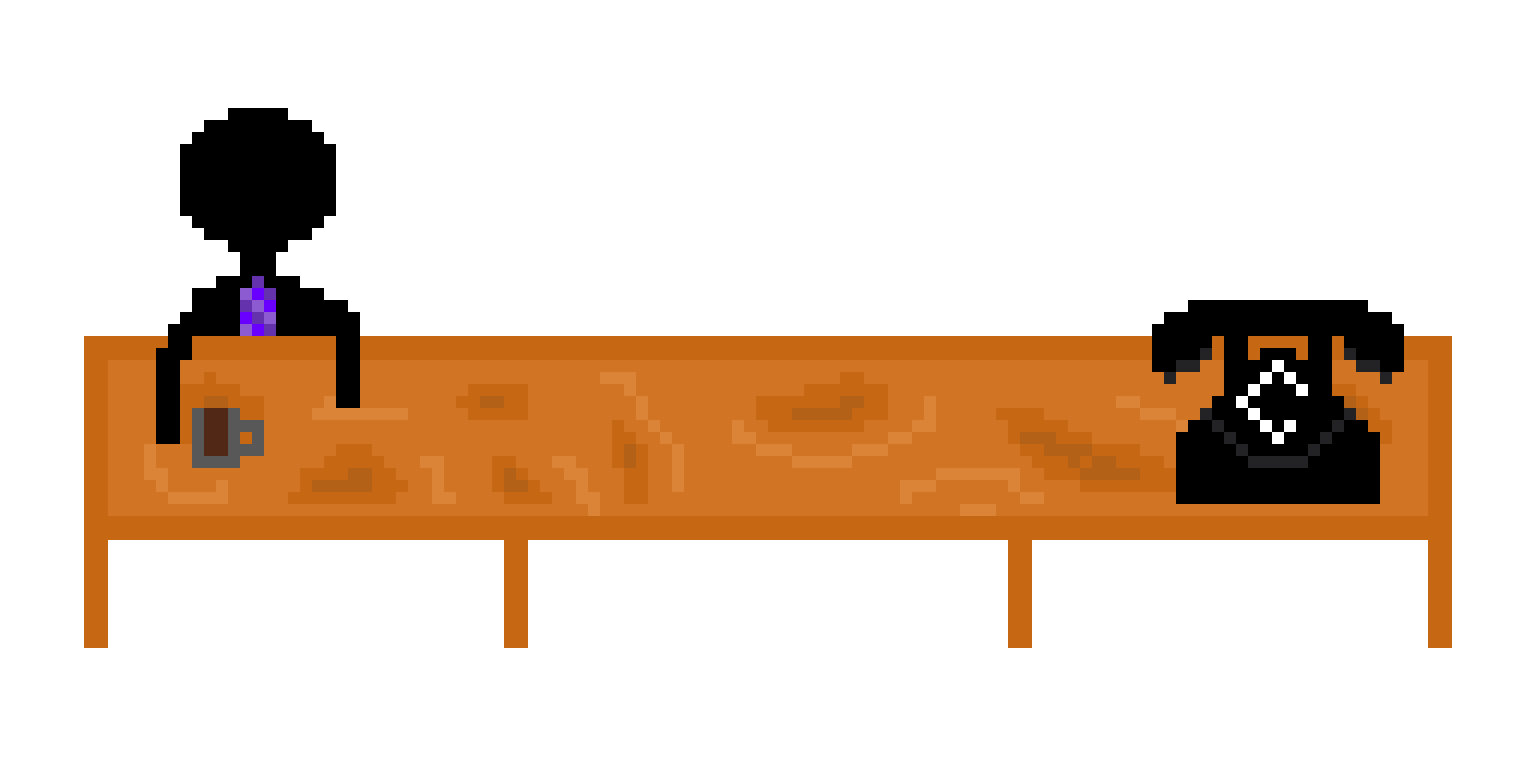
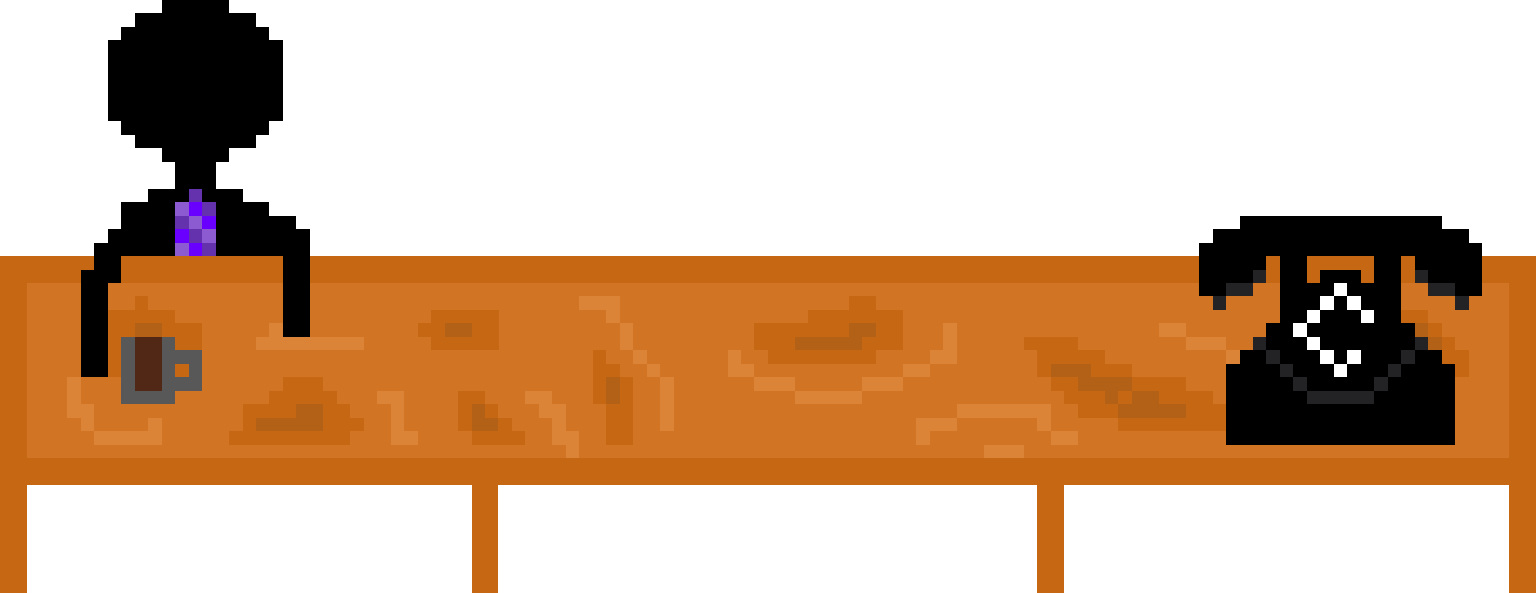
Re-downloaded the desk sprites to make sure they are the correct size. Positioned the sprites on the game screen page. Made the desk sprite change version based on the ice variable to demonstrate how later we can change the sprites easily. Fully implemented and functional.

diff --git a/core/src/com/mygdx/game/GameScreen.java b/core/src/com/mygdx/game/GameScreen.java
@@ -36,6 +36,17 @@ public class GameScreen implements Screen, GestureDetector.GestureListener {
     private ImageButton iceButton;
     private ImageButton marketButton;
     private ImageButton lobbyButton;
+
+    private ImageButton onePersonNoRing;
+    private ImageButton onePersonRing;
+
+    private ImageButton twoPersonNoRing;
+    private ImageButton twoPersonRing;
+
+    private ImageButton threePersonNoRing;
+    private ImageButton threePersonRing;
+
+
     private int screenWidth = Gdx.graphics.getWidth();
     private int screenHeight = Gdx.graphics.getHeight(); //Variable for screen height
     //public static int ice;
@@ -44,7 +55,8 @@ public class GameScreen implements Screen, GestureDetector.GestureListener {
     int playIntSec;
     int playIntHour;
     String gameClock;
-    
+
+    public static int whichTable = 0; //0 = onePersonNoRing, 1 = onePersonRing, 2 = twoPersonNoRing, 3 = twoPersonRing, 4 = threePersonNoRing, 5 = threePersonRing
 
     public GameScreen(final ProjectOdyssey game) {
         System.out.println(screenWidth + "HERE");
@@ -165,6 +177,172 @@ public class GameScreen implements Screen, GestureDetector.GestureListener {
         stage.addActor(marketButton);
 
         Gdx.input.setInputProcessor(new InputMultiplexer(stage, new GestureDetector(this)));
+
+        // onePersonNoRing
+        Skin onePersonNoRingSkin = new Skin();
+        onePersonNoRingSkin.add("onePersonNoRing", new Texture("MainScreen/OnePersonNoRing.png"));
+
+        ImageButton.ImageButtonStyle onePersonNoRingStyle = new ImageButton.ImageButtonStyle();
+        onePersonNoRingStyle.imageUp = onePersonNoRingSkin.getDrawable("onePersonNoRing"); // Unpressed
+        onePersonNoRingStyle.imageDown = onePersonNoRingSkin.getDrawable("onePersonNoRing"); // Pressed
+
+        onePersonNoRing = new ImageButton(onePersonNoRingStyle);
+        int buttonSize4 = (int) (300 * Gdx.graphics.getDensity());
+        onePersonNoRing.setSize( buttonSize4, (buttonSize4 *(float).386) ); //.386 is the ratio of the sprites height/width to ensure accurate hit detection
+        int width4 = (int) (((Gdx.graphics.getWidth() - onePersonNoRing.getWidth())/2));
+        int height4 = (int) (((Gdx.graphics.getHeight() - onePersonNoRing.getHeight())/1.1));
+        onePersonNoRing.setBounds(width4, height4, onePersonNoRing.getWidth(), onePersonNoRing.getHeight());
+        onePersonNoRing.addListener(new InputListener() {
+            @Override
+            public boolean touchDown(InputEvent event, float x, float y, int pointer, int button) {
+                return true;
+            }
+            @Override
+            public void touchUp(InputEvent event, float x, float y, int pointer, int button) {
+                moneys++;
+
+            }
+        });
+        //onePersonNoRing.setTouchable(Touchable.disabled);
+        stage.addActor(onePersonNoRing);
+
+        Gdx.input.setInputProcessor(new InputMultiplexer(stage, new GestureDetector(this)));
+
+
+        // onePersonRing
+        Skin onePersonRingSkin = new Skin();
+        onePersonRingSkin.add("onePersonRing", new Texture("MainScreen/OnePersonRing.png"));
+
+        ImageButton.ImageButtonStyle onePersonRingStyle = new ImageButton.ImageButtonStyle();
+        onePersonRingStyle.imageUp = onePersonRingSkin.getDrawable("onePersonRing"); // Unpressed
+        onePersonRingStyle.imageDown = onePersonRingSkin.getDrawable("onePersonRing"); // Pressed
+
+        onePersonRing = new ImageButton(onePersonRingStyle);
+        onePersonRing.setSize( buttonSize4, (buttonSize4 *(float).386) ); //.386 is the ratio of the sprites height/width to ensure accurate hit detection
+        onePersonRing.setBounds(width4, height4, onePersonRing.getWidth(), onePersonRing.getHeight());
+        onePersonRing.addListener(new InputListener() {
+            @Override
+            public boolean touchDown(InputEvent event, float x, float y, int pointer, int button) {
+                return true;
+            }
+            @Override
+            public void touchUp(InputEvent event, float x, float y, int pointer, int button) {
+                moneys++;
+
+            }
+        });
+        //onePersonNoRing.setTouchable(Touchable.disabled);
+        stage.addActor(onePersonRing);
+
+        Gdx.input.setInputProcessor(new InputMultiplexer(stage, new GestureDetector(this)));
+
+        // twoPersonNoRing
+        Skin twoPersonNoRingSkin = new Skin();
+        twoPersonNoRingSkin.add("twoPersonNoRing", new Texture("MainScreen/TwoPersonNoRing.png"));
+
+        ImageButton.ImageButtonStyle twoPersonNoRingStyle = new ImageButton.ImageButtonStyle();
+        twoPersonNoRingStyle.imageUp = twoPersonNoRingSkin.getDrawable("twoPersonNoRing"); // Unpressed
+        twoPersonNoRingStyle.imageDown = twoPersonNoRingSkin.getDrawable("twoPersonNoRing"); // Pressed
+
+        twoPersonNoRing = new ImageButton(twoPersonNoRingStyle);
+        twoPersonNoRing.setSize( buttonSize4, (buttonSize4 *(float).386) ); //.386 is the ratio of the sprites height/width to ensure accurate hit detection
+        twoPersonNoRing.setBounds(width4, height4, twoPersonNoRing.getWidth(), twoPersonNoRing.getHeight());
+        twoPersonNoRing.addListener(new InputListener() {
+            @Override
+            public boolean touchDown(InputEvent event, float x, float y, int pointer, int button) {
+                return true;
+            }
+            @Override
+            public void touchUp(InputEvent event, float x, float y, int pointer, int button) {
+                moneys++;
+
+            }
+        });
+        //onePersonNoRing.setTouchable(Touchable.disabled);
+        stage.addActor(twoPersonNoRing);
+
+        Gdx.input.setInputProcessor(new InputMultiplexer(stage, new GestureDetector(this)));
+
+        // twoPersonRing
+        Skin twoPersonRingSkin = new Skin();
+        twoPersonRingSkin.add("twoPersonRing", new Texture("MainScreen/TwoPersonRing.png"));
+
+        ImageButton.ImageButtonStyle twoPersonRingStyle = new ImageButton.ImageButtonStyle();
+        twoPersonRingStyle.imageUp = twoPersonRingSkin.getDrawable("twoPersonRing"); // Unpressed
+        twoPersonRingStyle.imageDown = twoPersonRingSkin.getDrawable("twoPersonRing"); // Pressed
+
+        twoPersonRing = new ImageButton(twoPersonRingStyle);
+        twoPersonRing.setSize( buttonSize4, (buttonSize4 *(float).386) ); //.386 is the ratio of the sprites height/width to ensure accurate hit detection
+        twoPersonRing.setBounds(width4, height4, twoPersonRing.getWidth(), twoPersonRing.getHeight());
+        twoPersonRing.addListener(new InputListener() {
+            @Override
+            public boolean touchDown(InputEvent event, float x, float y, int pointer, int button) {
+                return true;
+            }
+            @Override
+            public void touchUp(InputEvent event, float x, float y, int pointer, int button) {
+                moneys++;
+
+            }
+        });
+        //onePersonNoRing.setTouchable(Touchable.disabled);
+        stage.addActor(twoPersonRing);
+
+        Gdx.input.setInputProcessor(new InputMultiplexer(stage, new GestureDetector(this)));
+
+        // threePersonNoRing
+        Skin threePersonNoRingSkin = new Skin();
+        threePersonNoRingSkin.add("threePersonNoRing", new Texture("MainScreen/ThreePersonNoRing.png"));
+
+        ImageButton.ImageButtonStyle threePersonNoRingStyle = new ImageButton.ImageButtonStyle();
+        threePersonNoRingStyle.imageUp = threePersonNoRingSkin.getDrawable("threePersonNoRing"); // Unpressed
+        threePersonNoRingStyle.imageDown = threePersonNoRingSkin.getDrawable("threePersonNoRing"); // Pressed
+
+        threePersonNoRing = new ImageButton(threePersonNoRingStyle);
+        threePersonNoRing.setSize( buttonSize4, (buttonSize4 *(float).386) ); //.386 is the ratio of the sprites height/width to ensure accurate hit detection
+        threePersonNoRing.setBounds(width4, height4, threePersonNoRing.getWidth(), threePersonNoRing.getHeight());
+        threePersonNoRing.addListener(new InputListener() {
+            @Override
+            public boolean touchDown(InputEvent event, float x, float y, int pointer, int button) {
+                return true;
+            }
+            @Override
+            public void touchUp(InputEvent event, float x, float y, int pointer, int button) {
+                moneys++;
+
+            }
+        });
+        //onePersonNoRing.setTouchable(Touchable.disabled);
+        stage.addActor(threePersonNoRing);
+
+        Gdx.input.setInputProcessor(new InputMultiplexer(stage, new GestureDetector(this)));
+
+        // threePersonRing
+        Skin threePersonRingSkin = new Skin();
+        threePersonRingSkin.add("threePersonRing", new Texture("MainScreen/ThreePersonRing.png"));
+
+        ImageButton.ImageButtonStyle threePersonRingStyle = new ImageButton.ImageButtonStyle();
+        threePersonRingStyle.imageUp = threePersonRingSkin.getDrawable("threePersonRing"); // Unpressed
+        threePersonRingStyle.imageDown = threePersonRingSkin.getDrawable("threePersonRing"); // Pressed
+
+        threePersonRing = new ImageButton(threePersonRingStyle);
+        threePersonRing.setSize( buttonSize4, (buttonSize4 *(float).386) ); //.386 is the ratio of the sprites height/width to ensure accurate hit detection
+        threePersonRing.setBounds(width4, height4, threePersonRing.getWidth(), threePersonRing.getHeight());
+        threePersonRing.addListener(new InputListener() {
+            @Override
+            public boolean touchDown(InputEvent event, float x, float y, int pointer, int button) {
+                return true;
+            }
+            @Override
+            public void touchUp(InputEvent event, float x, float y, int pointer, int button) {
+                moneys++;
+
+            }
+        });
+        //onePersonNoRing.setTouchable(Touchable.disabled);
+        stage.addActor(threePersonRing);
+
+        Gdx.input.setInputProcessor(new InputMultiplexer(stage, new GestureDetector(this)));
     }
 
 
@@ -206,16 +384,57 @@ public class GameScreen implements Screen, GestureDetector.GestureListener {
             moneyCounter.draw(batch, "$" + ProjectOdyssey.moneys, ((int)(.83 * screenWidth)), ((int)(.98 * screenHeight))); //Position of money counter when x>9
         }
 
-
-
-
         batch.end();
-
-
         batch.begin();
+
         iceButton.draw(batch, 1);
+
+
+        if (ProjectOdyssey.ice == 4) {
+            whichTable = 1;
+        }
+        else if (ProjectOdyssey.ice == 5) {
+            whichTable = 2;
+        }
+        else if (ProjectOdyssey.ice == 6) {
+            whichTable = 3;
+        }
+        else if (ProjectOdyssey.ice == 7) {
+            whichTable = 4;
+        }
+        else if (ProjectOdyssey.ice == 8) { //thsi one doesnt work idk why
+            whichTable = 5;
+        }
+        else { //for testing
+            whichTable = 0;
+        }
+
+        if (whichTable == 0){ //draw the table sprite depending on the whichTable variable. IDK if this will work well with clicking the tables because maybe they will be stacking.
+            onePersonNoRing.draw(batch, 1);
+        }
+        else if (whichTable == 1){
+            onePersonRing.draw(batch, 1);
+        }
+        else if (whichTable == 2){
+            twoPersonNoRing.draw(batch, 1);
+        }
+        else if (whichTable == 3){
+            twoPersonRing.draw(batch, 1);
+        }
+        else if (whichTable == 4){
+            threePersonNoRing.draw(batch, 1);
+        }
+        else if (whichTable == 5){
+            threePersonRing.draw(batch, 1);
+        }
         batch.end();
         camera.update();
+
+
+
+
+
+
 
         if(ProjectOdyssey.ice >= 5 || ProjectOdyssey.marketShow == true) {
             marketButton.setTouchable(Touchable.enabled);

diff --git a/core/src/com/mygdx/game/Market.java b/core/src/com/mygdx/game/Market.java
@@ -227,11 +227,11 @@ public class Market implements Screen, GestureDetector.GestureListener{
             public void touchUp(InputEvent event, float x, float y, int pointer, int button) {
                 if (sellMode == true && ProjectOdyssey.shovel > 0){//prevents from selling into negatives
                     ProjectOdyssey.shovel--;//subtracts one ice each touchup
-                    ProjectOdyssey.moneys =  ProjectOdyssey.moneys - ProjectOdyssey.shovelPrice;//adds iceprice amount of moneys each time you click button
+                    ProjectOdyssey.moneys =  ProjectOdyssey.moneys + ProjectOdyssey.shovelPrice;//adds iceprice amount of moneys each time you click button
                 }
                 if (sellMode == false && ProjectOdyssey.moneys >= ProjectOdyssey.shovelPrice){//prevents from selling into negatives
                     ProjectOdyssey.shovel++;
-                    ProjectOdyssey.moneys =  ProjectOdyssey.moneys + ProjectOdyssey.shovelPrice;//adds iceprice amount of moneys each time you click button
+                    ProjectOdyssey.moneys =  ProjectOdyssey.moneys - ProjectOdyssey.shovelPrice;//adds iceprice amount of moneys each time you click button
                 }
 
 

diff --git a/core/src/com/mygdx/game/ProjectOdyssey.java b/core/src/com/mygdx/game/ProjectOdyssey.java
@@ -322,11 +322,11 @@ public class ProjectOdyssey extends Game {
 				}
 			}
 		}
-		if (snowManPrice > shovelMax){ //This makes sure the price of the item never exceeds its designated max price
-			snowManPrice = shovelMax;
+		if (shovelPrice > shovelMax){ //This makes sure the price of the item never exceeds its designated max price
+			shovelPrice = shovelMax;
 		}
-		if (snowManPrice < shovelMin){
-			snowManPrice = shovelMin;
+		if (shovelPrice < shovelMin){
+			shovelPrice = shovelMin;
 		}
 		System.out.println("Shovel Price:" + shovelPrice);
 	}
